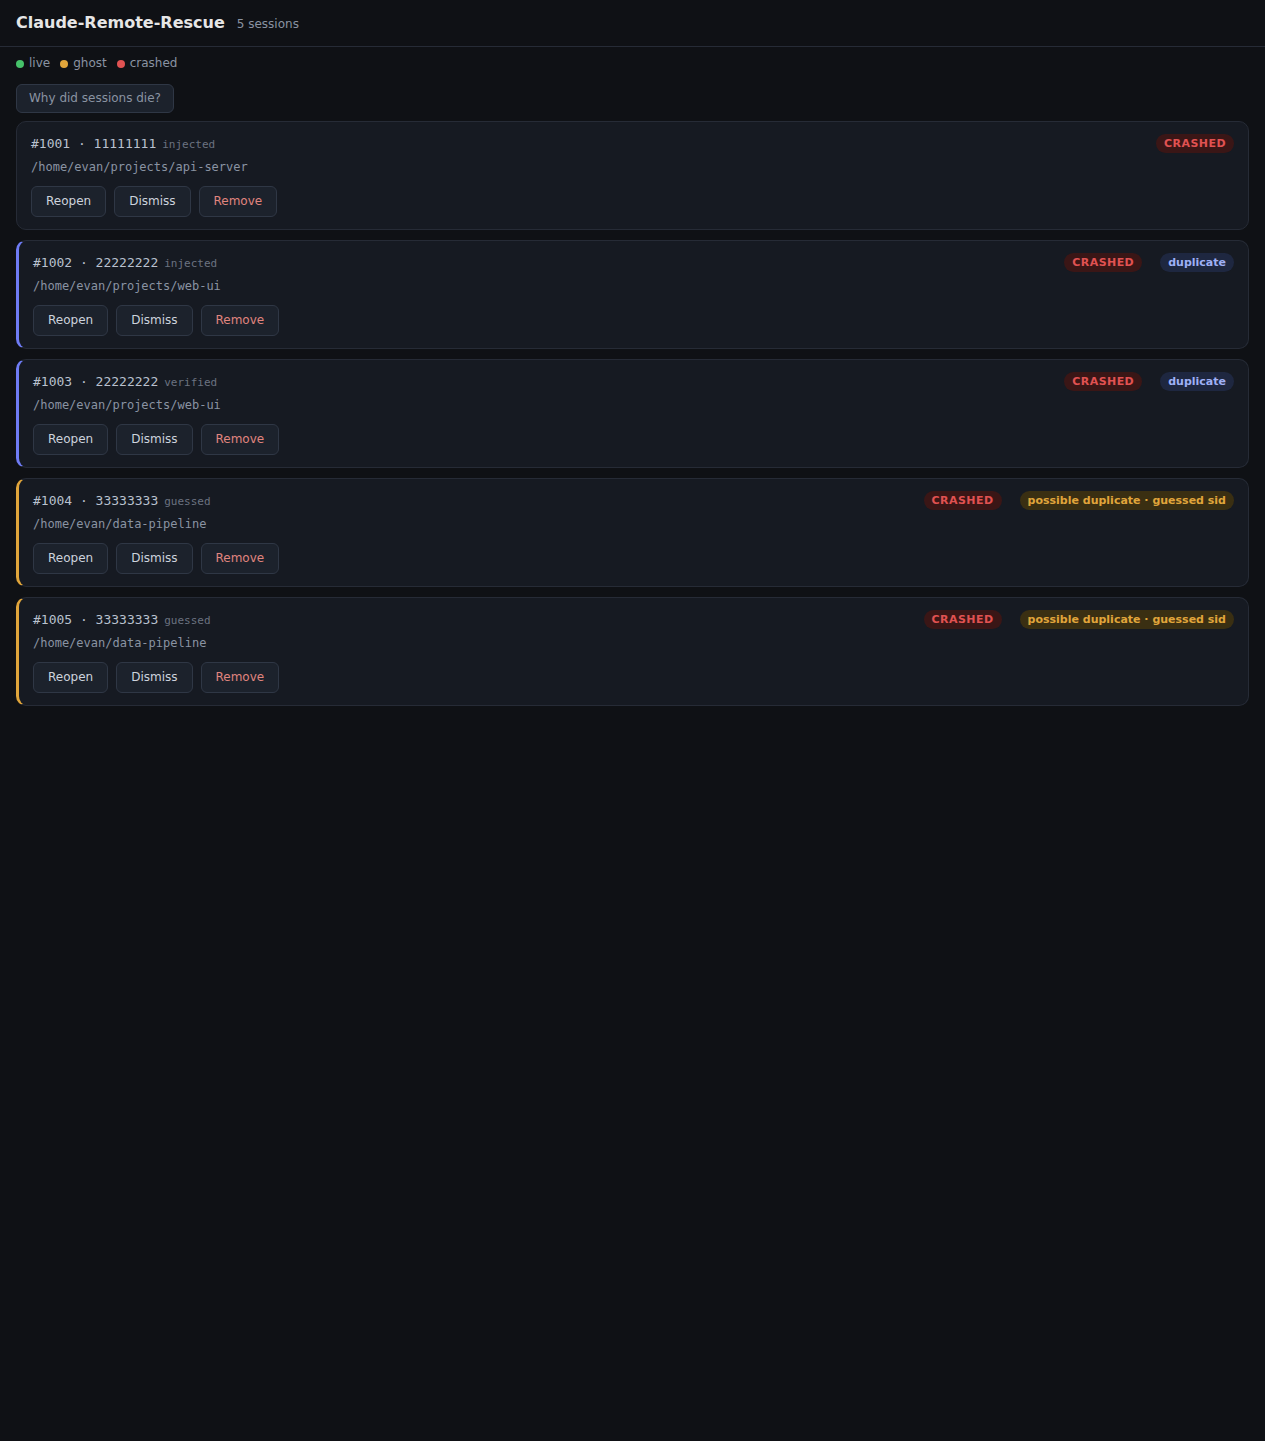
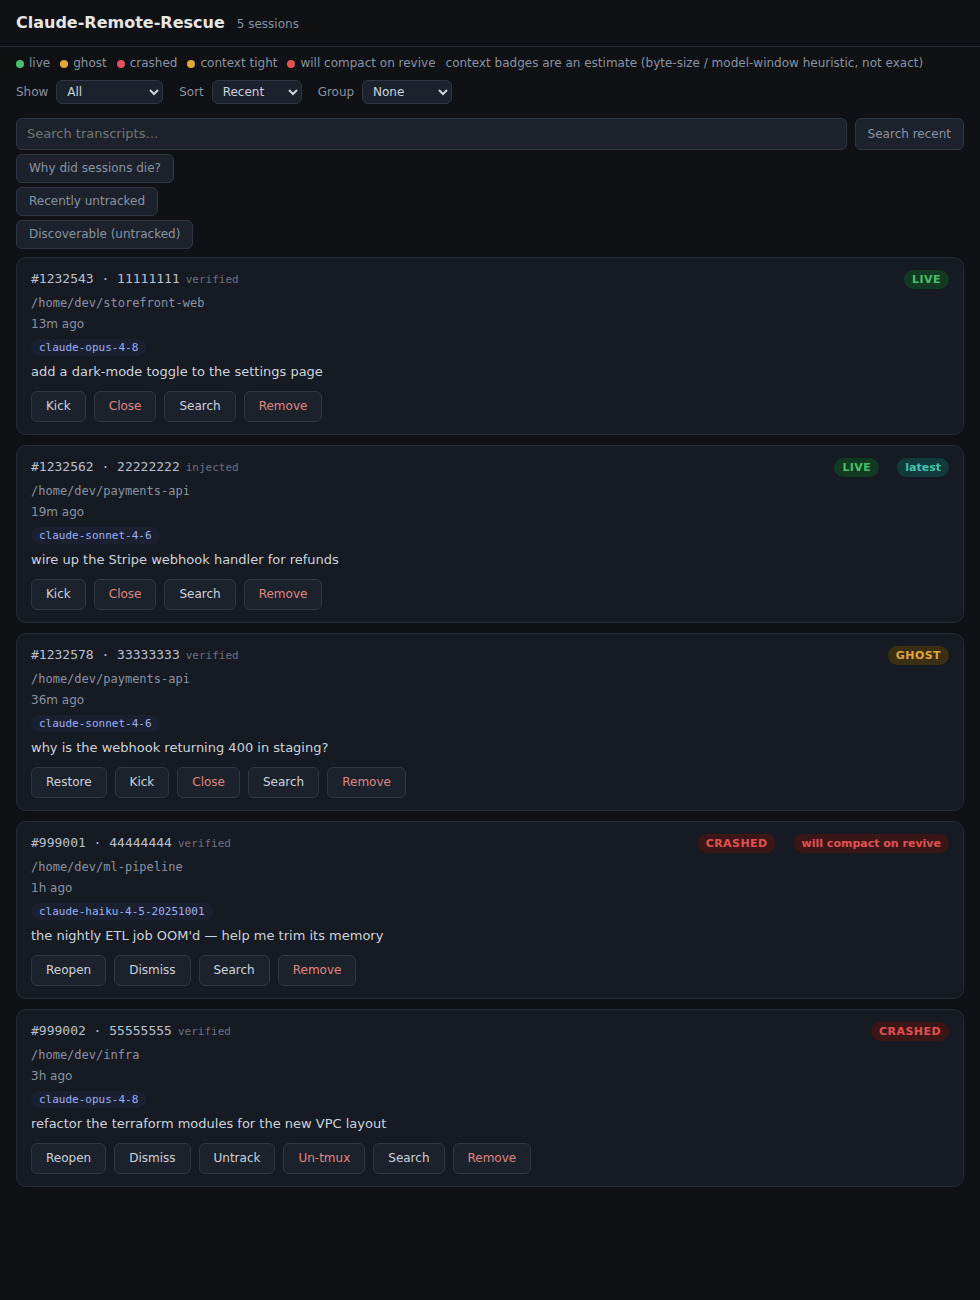
docs: refresh dashboard screenshots (current v23 UI, synthetic data)
The Jul-26 screenshots predated ~9 dashboard versions. Regenerated from an
isolated dashboard seeded with synthetic sessions (no real prompts/paths):
- dashboard.png: live/ghost/crashed cards with provenance, true-recency +
  latest chip, the compaction badge, model chips, the recall search bar, and
  the full action set (Kick/Close/Untrack/Un-tmux/Search/...).
- discovery.png (replaces diagnostics.png): the Discoverable panel with
  Adopt + Take over (the phone side of adopt --takeover); README caption
  updated, diagnostics panel kept as a text mention.
Also drops 5 stray .playwright-mcp log files accidentally committed in July.

Claude-Session: https://claude.ai/code/session_019WepSYE6wfQA8k4Gu6RTaW

diff --git a/README.md b/README.md
@@ -76,11 +76,15 @@ still-live `claude` at a safe turn boundary, then adopt it — the phone-side of
 earlier conversation from transcripts without re-injecting it into a live
 session.
 
-![The "why did sessions die?" panel](docs/screenshots/diagnostics.png)
+![Discoverable sessions, each with Adopt and Take over](docs/screenshots/discovery.png)
 
-The lazy "Why did sessions die?" panel leads with a **plain-English verdict**
-(out-of-memory, kernel panic, unexpected shutdown, clean reboot, or "looks
-clean") above the raw journald/WinEvent evidence.
+**Discovery** surfaces `claude` transcripts on disk that crr never tracked.
+**Adopt** journals one as a recoverable session; **Take over** — the phone-side
+of `crr adopt --takeover` — stops a still-live `claude` at a safe turn boundary
+first, then adopts it, so no second copy races the first. A separate lazy
+**"Why did sessions die?"** panel (not shown) leads with a plain-English
+verdict — out-of-memory, kernel panic, unexpected shutdown, clean reboot, or
+"looks clean" — above the raw journald/WinEvent evidence.
 
 ## Install
 
